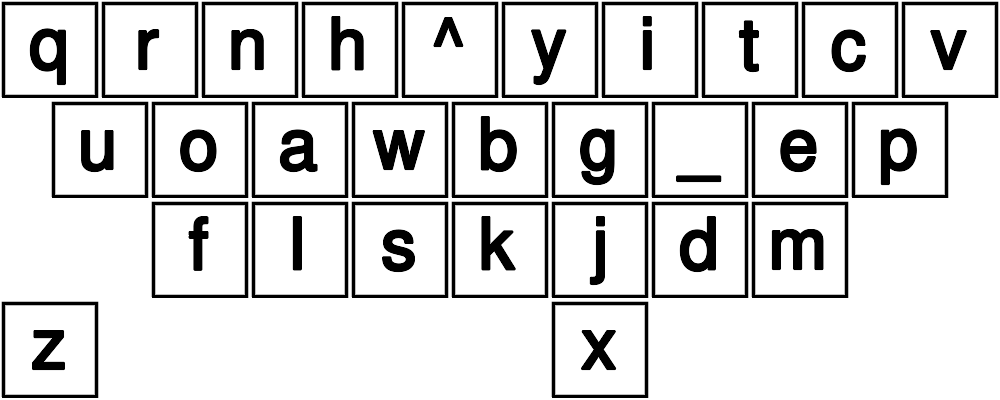
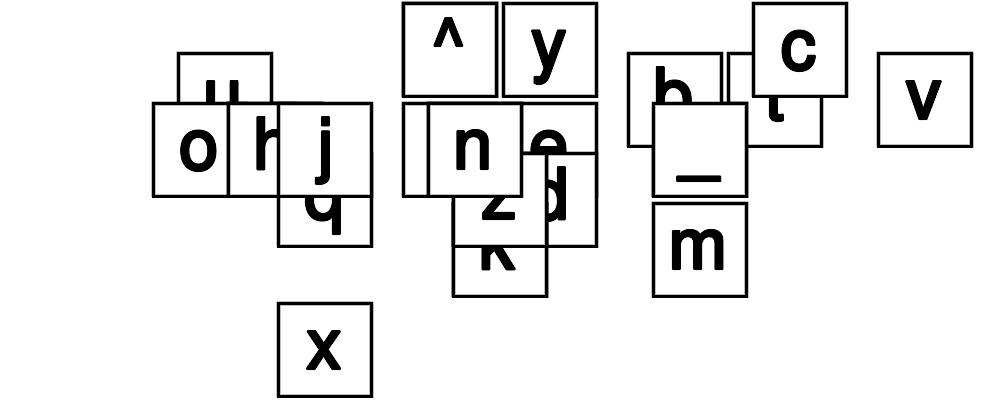
added spreadKeyboard
spreadKeyboard currently places any averaged keys on a keyboard in a greedy fashion

diff --git a/Imaging/keyboardImage.py b/Imaging/keyboardImage.py
@@ -1,10 +1,16 @@
-#!/usr/bin/env python3.5
+#!/usr/bin/env python2.7
+from __future__ import division
 from wand.image import Image
-def makeKeyboardImage(thisDict):
+import math
+from random import shuffle
+
+def distance(p0, p1):
+    return math.sqrt((p0[0] - p1[0])**2 + (p0[1] - p1[1])**2)
+
+def makeKeyboardImage(thisDict, filename):
 	keyNumberToCoordinates = {1: [0, 3], 2: [1, 3], 3: [2, 3], 4: [3, 3], 5: [4, 3], 6: [5, 3], 7: [6, 3], 8: [7, 3], 9: [8, 3], 10: [9, 3], 11: [0.5, 2], 12: [1.5, 2], 13: [2.5, 2], 14: [3.5, 2], 15: [4.5, 2], 16: [5.5, 2], 17: [6.5, 2], 18: [7.5, 2], 19: [8.5, 2], 20: [0, 0], 21: [1.5, 1], 22: [2.5, 1], 23: [3.5, 1], 24: [4.5, 1], 25: [5.5, 1], 26: [6.5, 1], 27: [7.5, 1], 28: [5.5, 0]}
 	letters = ['q','w','e','r','t','y','u','i','o','p','a','s','d','f','g','h','j','k','l','^','z','x','c','v','b','n','m',' ']
 	if isinstance(thisDict['q'], int):
-		print (thisDict)
 		newDict = {}
 		for i in thisDict:
 			newDict[i] = keyNumberToCoordinates[thisDict[i]]
@@ -20,10 +26,61 @@ def makeKeyboardImage(thisDict):
 				name = i+'.png'
 			with Image(filename=name) as key:
 				board.composite(key, left=int(thisDict[i][0]*100), top=(h-int(thisDict[i][1]*100))-100)
-		board.save(filename='KEYBOARD.png')
-if __name__ == '__main__':
-	minimum = {' ': 17, '^': 5, 'a': 13, 'c': 9, 'b': 15, 'e': 18, 'd': 26, 'g': 16, 'f': 21, 'i': 7, 'h': 4, 'k': 24, 'j': 25, 'm': 27, 'l': 22, 'o': 12, 'n': 3, 'q': 1, 'p': 19, 's': 23, 'r': 2, 'u': 11, 't': 8, 'w': 14, 'v': 10, 'y': 6, 'x': 28, 'z': 20}
-	makeKeyboardImage(minimum)
- 		# for i in letters:
-	#	 print ("convert -size 100x100 xc:transparent '{0}.png'".format(i))
-	#	 print ("convert '{0}.png' -fill white -stroke black -strokewidth 3 -draw 'rectangle 3,3 96,96' {0}.png -gravity Center -fill black -stroke black -pointsize 70 -annotate 0 '{0}' {0}.png".format(i))
+		board.save(filename=filename+'.png')
+
+def midpoint(c1, c2):
+	theMidpoint = [(c1[0]+c2[0])/2,(c1[1]+c2[1])/2]
+	return theMidpoint
+
+def averageKeyboard(dict1, dict2):
+	keyNumberToCoordinates = {1: [0, 3], 2: [1, 3], 3: [2, 3], 4: [3, 3], 5: [4, 3], 6: [5, 3], 7: [6, 3], 8: [7, 3], 9: [8, 3], 10: [9, 3], 11: [0.5, 2], 12: [1.5, 2], 13: [2.5, 2], 14: [3.5, 2], 15: [4.5, 2], 16: [5.5, 2], 17: [6.5, 2], 18: [7.5, 2], 19: [8.5, 2], 20: [0, 0], 21: [1.5, 1], 22: [2.5, 1], 23: [3.5, 1], 24: [4.5, 1], 25: [5.5, 1], 26: [6.5, 1], 27: [7.5, 1], 28: [5.5, 0]}
+	letters = ['q','w','e','r','t','y','u','i','o','p','a','s','d','f','g','h','j','k','l','^','z','x','c','v','b','n','m',' ']
+
+	if isinstance(dict1['q'], int):
+		newDict = {}
+		for i in dict1:
+			newDict[i] = keyNumberToCoordinates[dict1[i]]
+		dict1 = newDict
+	if isinstance(dict2['q'], int):
+		newDict = {}
+		for i in dict2:
+			newDict[i] = keyNumberToCoordinates[dict2[i]]
+		dict2 = newDict
+
+	meanDict = {}
+	for i in letters:
+		meanDict[i] = midpoint(dict1[i],dict2[i])
+	return meanDict
+
+def spreadKeys(d):
+	coordinates = [[0,3],[1,3],[2,3],[3,3],[4,3],[5,3],[6,3],[7,3],[8,3],[9,3],[0.5,2],[1.5,2],[2.5,2],[3.5,2],[4.5,2],[5.5,2],[6.5,2],[7.5,2],[8.5,2],[0,0],[1.5,1],[2.5,1],[3.5,1],[4.5,1],[5.5,1],[6.5,1],[7.5,1],[5.5,0]]
+	shuffle(coordinates)
+	#shuffled to prevent repetitive bias
+	for i in d:
+		if d[i] in coordinates:
+			coordinates.remove(d[i])
+		else:
+			lowestDistance = 100
+			closestCoordinate = []
+			for j in coordinates:
+				if distance(d[i],j) < lowestDistance:
+					lowestDistance = distance(d[i],j)
+					closestCoordinate = j
+			d[i] = closestCoordinate
+			coordinates.remove(closestCoordinate)
+	return d
+
+
+
+best  = {' ': 17, '^': 5, 'a': 13, 'c': 9, 'b': 15, 'e': 18, 'd': 26, 'g': 16, 'f': 21, 'i': 7, 'h': 4, 'k': 24, 'j': 25, 'm': 27, 'l': 22, 'o': 12, 'n': 3, 'q': 1, 'p': 19, 's': 23, 'r': 2, 'u': 11, 't': 8, 'w': 14, 'v': 10, 'y': 6, 'x': 28, 'z': 20}
+theoretical = {' ': 17, '^': 5, 'a': 16, 'c': 8, 'b': 9, 'e': 13, 'd': 14, 'g': 23, 'f': 27, 'i': 3, 'h': 21, 'k': 24, 'j': 1, 'm': 25, 'l': 7, 'o': 12, 'n': 26, 'q': 28, 'p': 15, 's': 2, 'r': 22, 'u': 4, 't': 18, 'w': 11, 'v': 19, 'y': 6, 'x': 20, 'z': 10}
+x = averageKeyboard(best,theoretical)
+y = spreadKeys(x)
+makeKeyboardImage(y,'TEST')
+
+# if __name__ == '__main__':
+# 	minimum = {' ': 17, '^': 5, 'a': 13, 'c': 9, 'b': 15, 'e': 18, 'd': 26, 'g': 16, 'f': 21, 'i': 7, 'h': 4, 'k': 24, 'j': 25, 'm': 27, 'l': 22, 'o': 12, 'n': 3, 'q': 1, 'p': 19, 's': 23, 'r': 2, 'u': 11, 't': 8, 'w': 14, 'v': 10, 'y': 6, 'x': 28, 'z': 20}
+# 	makeKeyboardImage(minimum)
+#  		# for i in letters:
+# 	#	 print ("convert -size 100x100 xc:transparent '{0}.png'".format(i))
+# 	#	 print ("convert '{0}.png' -fill white -stroke black -strokewidth 3 -draw 'rectangle 3,3 96,96' {0}.png -gravity Center -fill black -stroke black -pointsize 70 -annotate 0 '{0}' {0}.png".format(i))

diff --git a/compiledGradient.py b/compiledGradient.py
@@ -360,10 +360,11 @@ if __name__ == '__main__':
     print getMinKeyboard('pickleTest')
 
 
-    # lettersAreHere = resultsTraverser('pickleTest')
+    lettersAreHere = resultsTraverser('pickleTest')
     # strongestOccuringLetters = returnStrongestLetterPlacements(lettersAreHere)
     # print ('strongestOccuringLetters', strongestOccuringLetters)
-    # theoreticalBestKeyboard = strongestKeyboard(lettersAreHere, 28)
+    theoreticalBestKeyboard = strongestKeyboard(lettersAreHere, 28)
+    print theoreticalBestKeyboard
     # print (mobileFitness(lowerInput, theoreticalBestKeyboard), keyboardDisplay(theoreticalBestKeyboard))
     #
     # bestOfPickles = getMinKeyboard('pickleTest')
